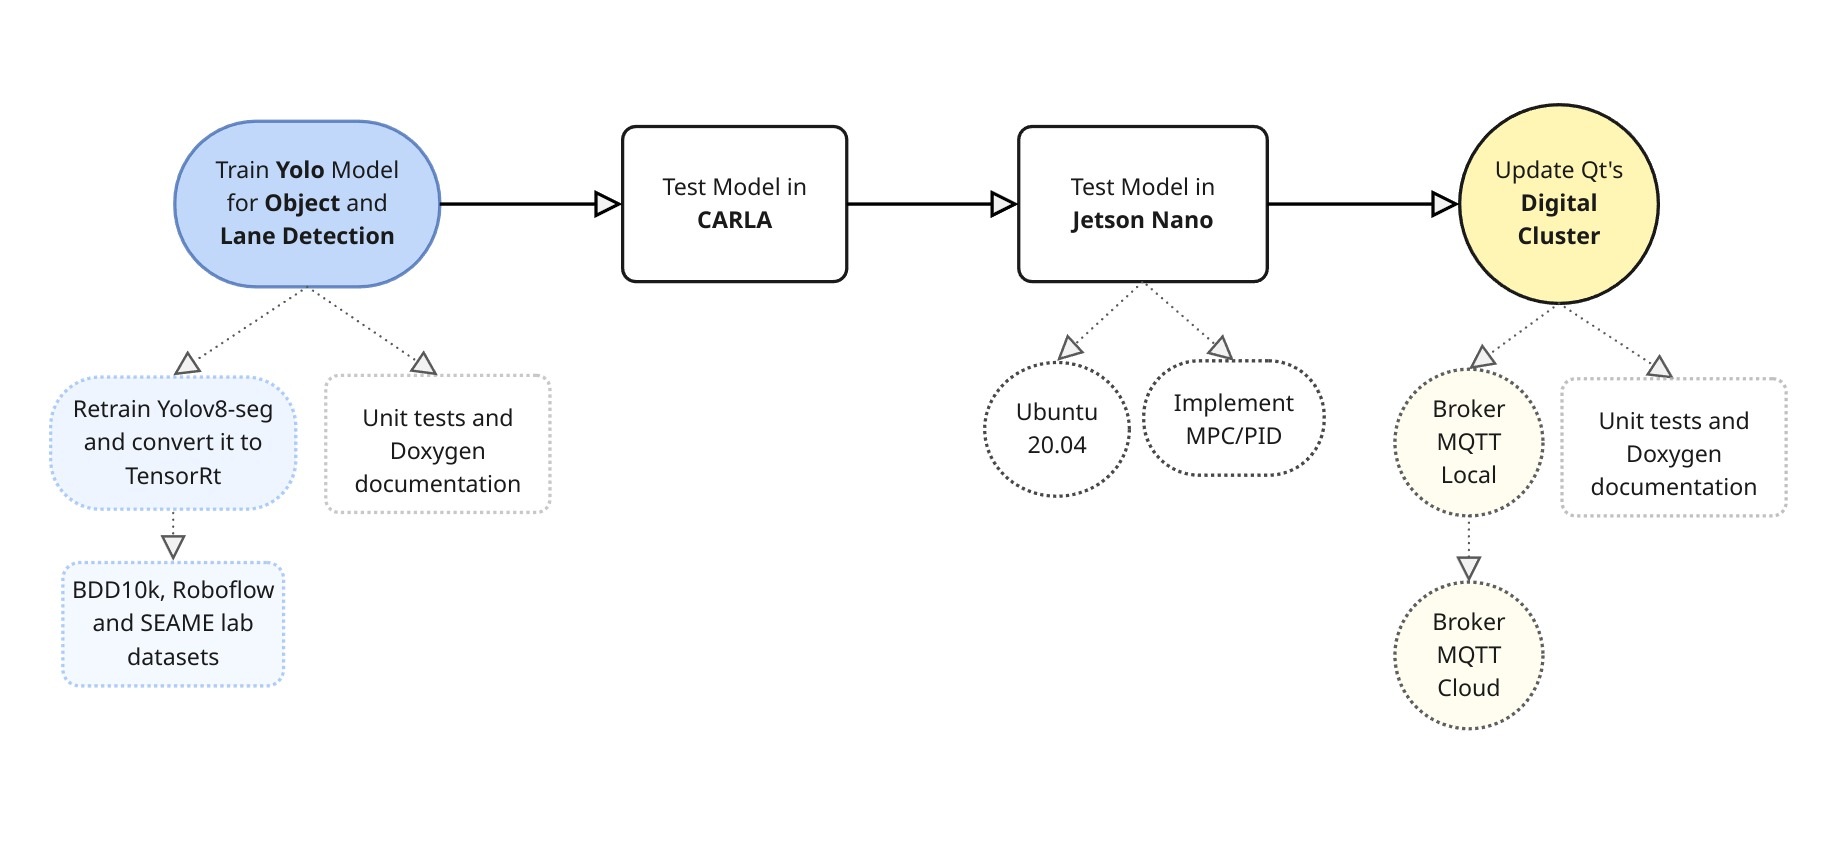
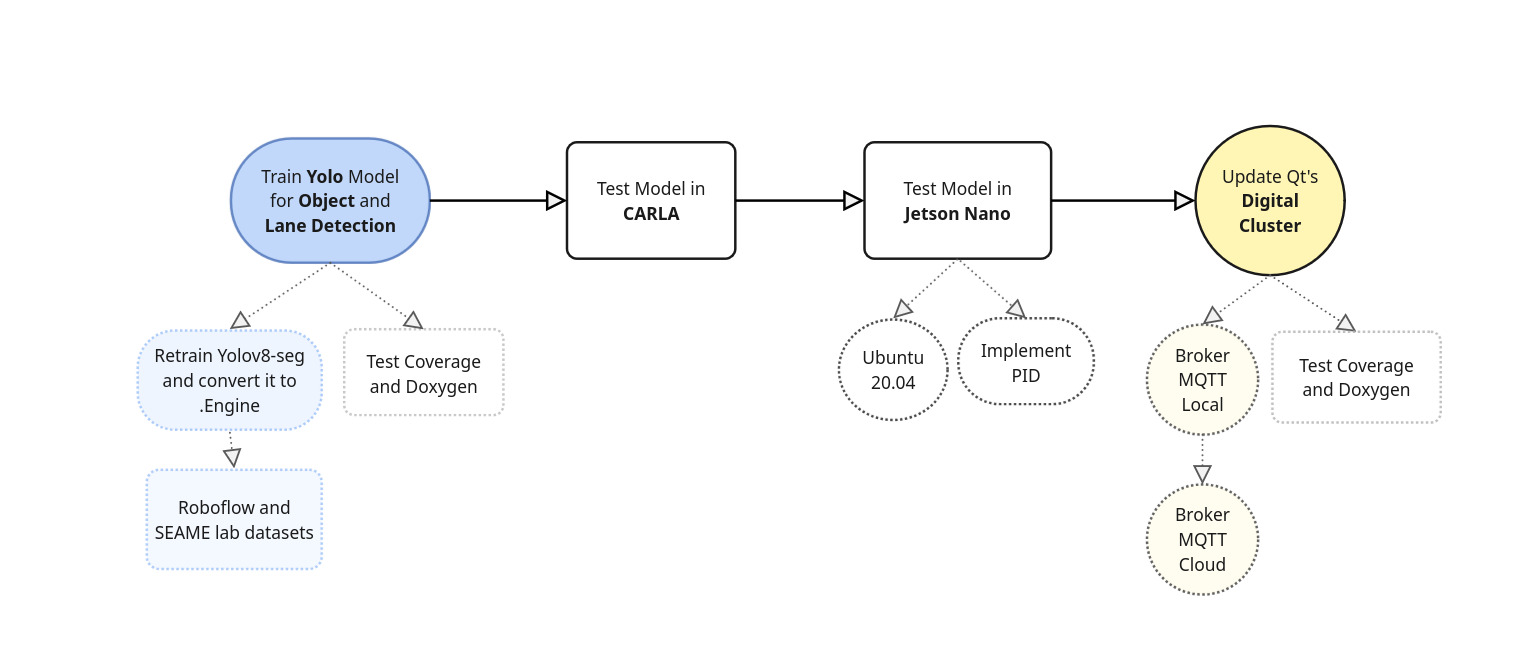
documentation and test coverage

diff --git a/README.md b/README.md
@@ -111,3 +111,7 @@ Tested on: **Jetson Nano 4GB**, Ubuntu 20.04, JetPack 4.x, CUDA, cuDNN, TensorRT
 To see more Documentation on the PID control go to [this file](pid_control/README.md).
 
 To see a more structured Documentation go to [Doxygen](https://seame-pt.github.io/ObjectDetectionAvoidance/).
+
+## Test Coverage Report
+
+To see our test coverage report click here: [Coverage Report](https://seame-pt.github.io/ObjectDetectionAvoidance/coverage/index.html).
